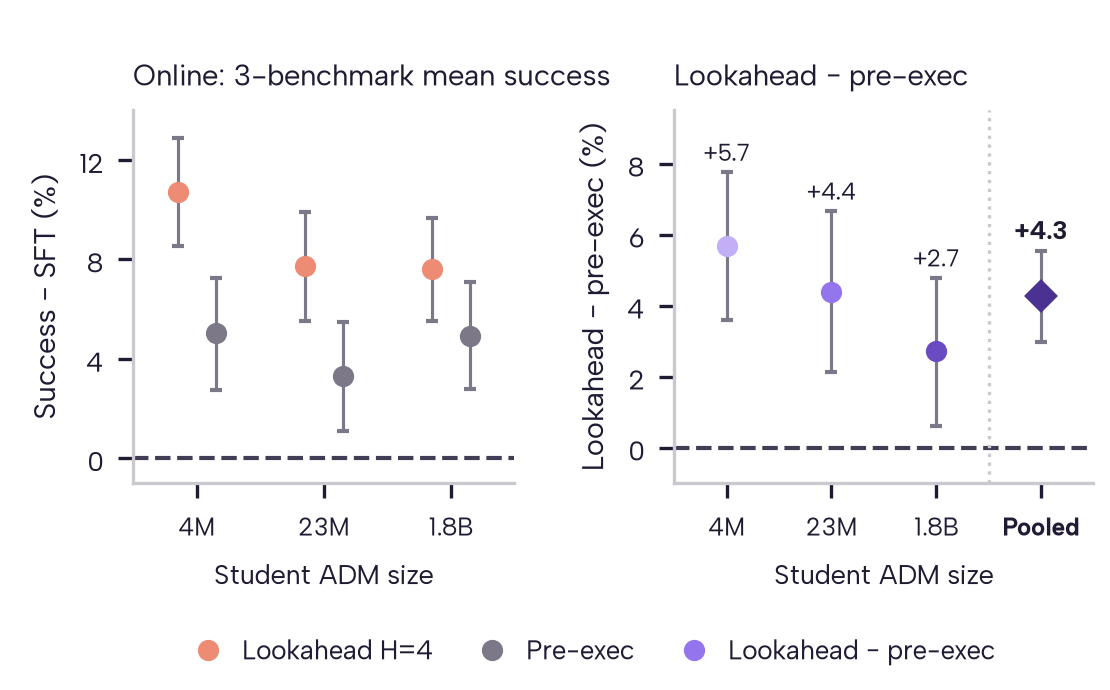
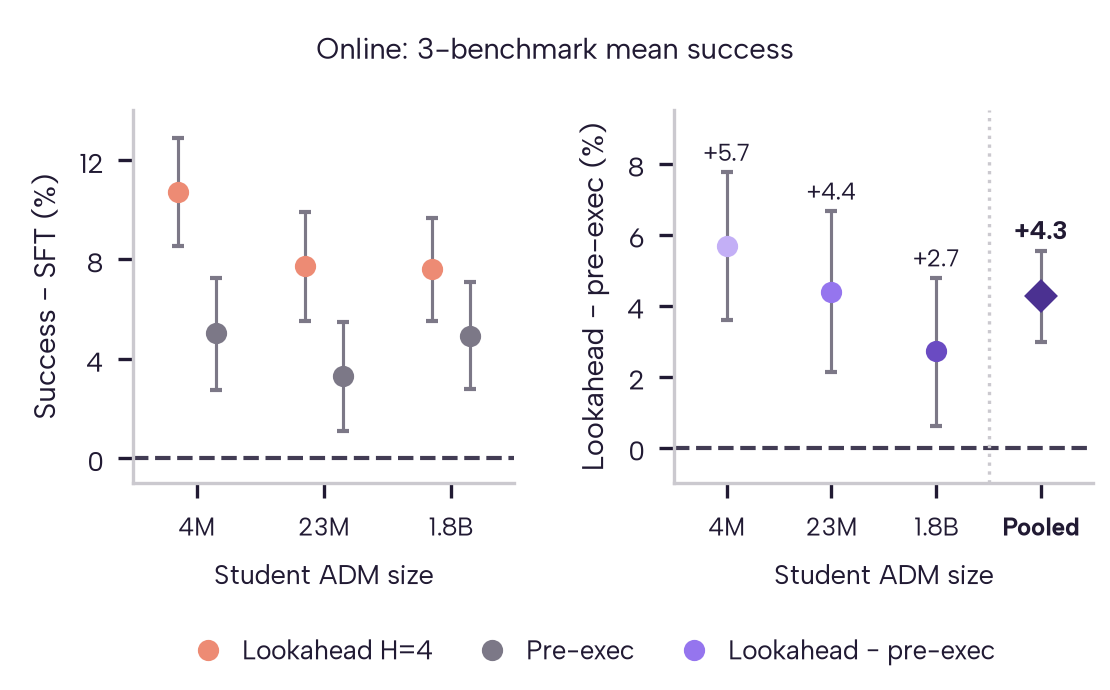
4M/23M/1.8B paper figure: one shared title, Online: 3-benchmark mean success

Changed region(s): [[0.1225, 0.0609, 0.7351, 0.1217], [0.7658, 0.0913, 0.8883, 0.1217]]

diff --git a/openwebrl/docs/arm_results/rl_integration/selection-head-pre-vs-lookahead-paper-4m-1p8b-20261115-plot.py b/openwebrl/docs/arm_results/rl_integration/selection-head-pre-vs-lookahead-paper-4m-1p8b-20261115-plot.py
@@ -44,7 +44,7 @@ for x, (pt, lo, hi) in enumerate(diffs):
     pooled = x == len(KEYS)
     point(a2, x, (-pt, -hi, -lo), PURPLES[x], "D" if pooled else "o", ms=4.8 if pooled else 4.1, bold=pooled)
 a2.axvline(len(KEYS) - 0.5, color=C["BORDER"], lw=0.8, ls=":", zorder=1)   # marks the pooled estimate off from the per-size points
-for ax, title, ticks in ((a1, "Online: 3-benchmark mean success", SIZES), (a2, "Lookahead − pre-exec", [*SIZES, "Pooled"])):
+for ax, title, ticks in ((a1, "", SIZES), (a2, "", [*SIZES, "Pooled"])):
     ax.axhline(0, color=MUTED, lw=1, ls="--", zorder=0)
     ax.set_title(title, fontsize=7, loc="left", color=INK, pad=6)
     ax.set_xticks(range(len(ticks)), ticks, fontsize=5.9)
@@ -52,6 +52,7 @@ for ax, title, ticks in ((a1, "Online: 3-benchmark mean success", SIZES), (a2, "
     ax.tick_params(axis="y", labelsize=6.5); ax.tick_params(colors=INK); ax.grid(False)
     for side in ("top", "right"): ax.spines[side].set_visible(False)
 a2.get_xticklabels()[-1].set_fontweight("bold")
+fig.suptitle("Online: 3-benchmark mean success", fontsize=7, color=INK, y=0.955)   # one title for both panels
 a1.set_ylim(-1, 14); a1.set_yticks([0, 4, 8, 12]); a1.set_ylabel("Success − SFT (%)", fontsize=7, color=INK)
 a2.set_ylim(-1, 9.5); a2.set_yticks([0, 2, 4, 6, 8]); a2.set_ylabel("Lookahead − pre-exec (%)", fontsize=7, color=INK)
 a1.set_xlabel("Student ADM size", fontsize=6.5, color=INK); a2.set_xlabel("Student ADM size", fontsize=6.5, color=INK)
